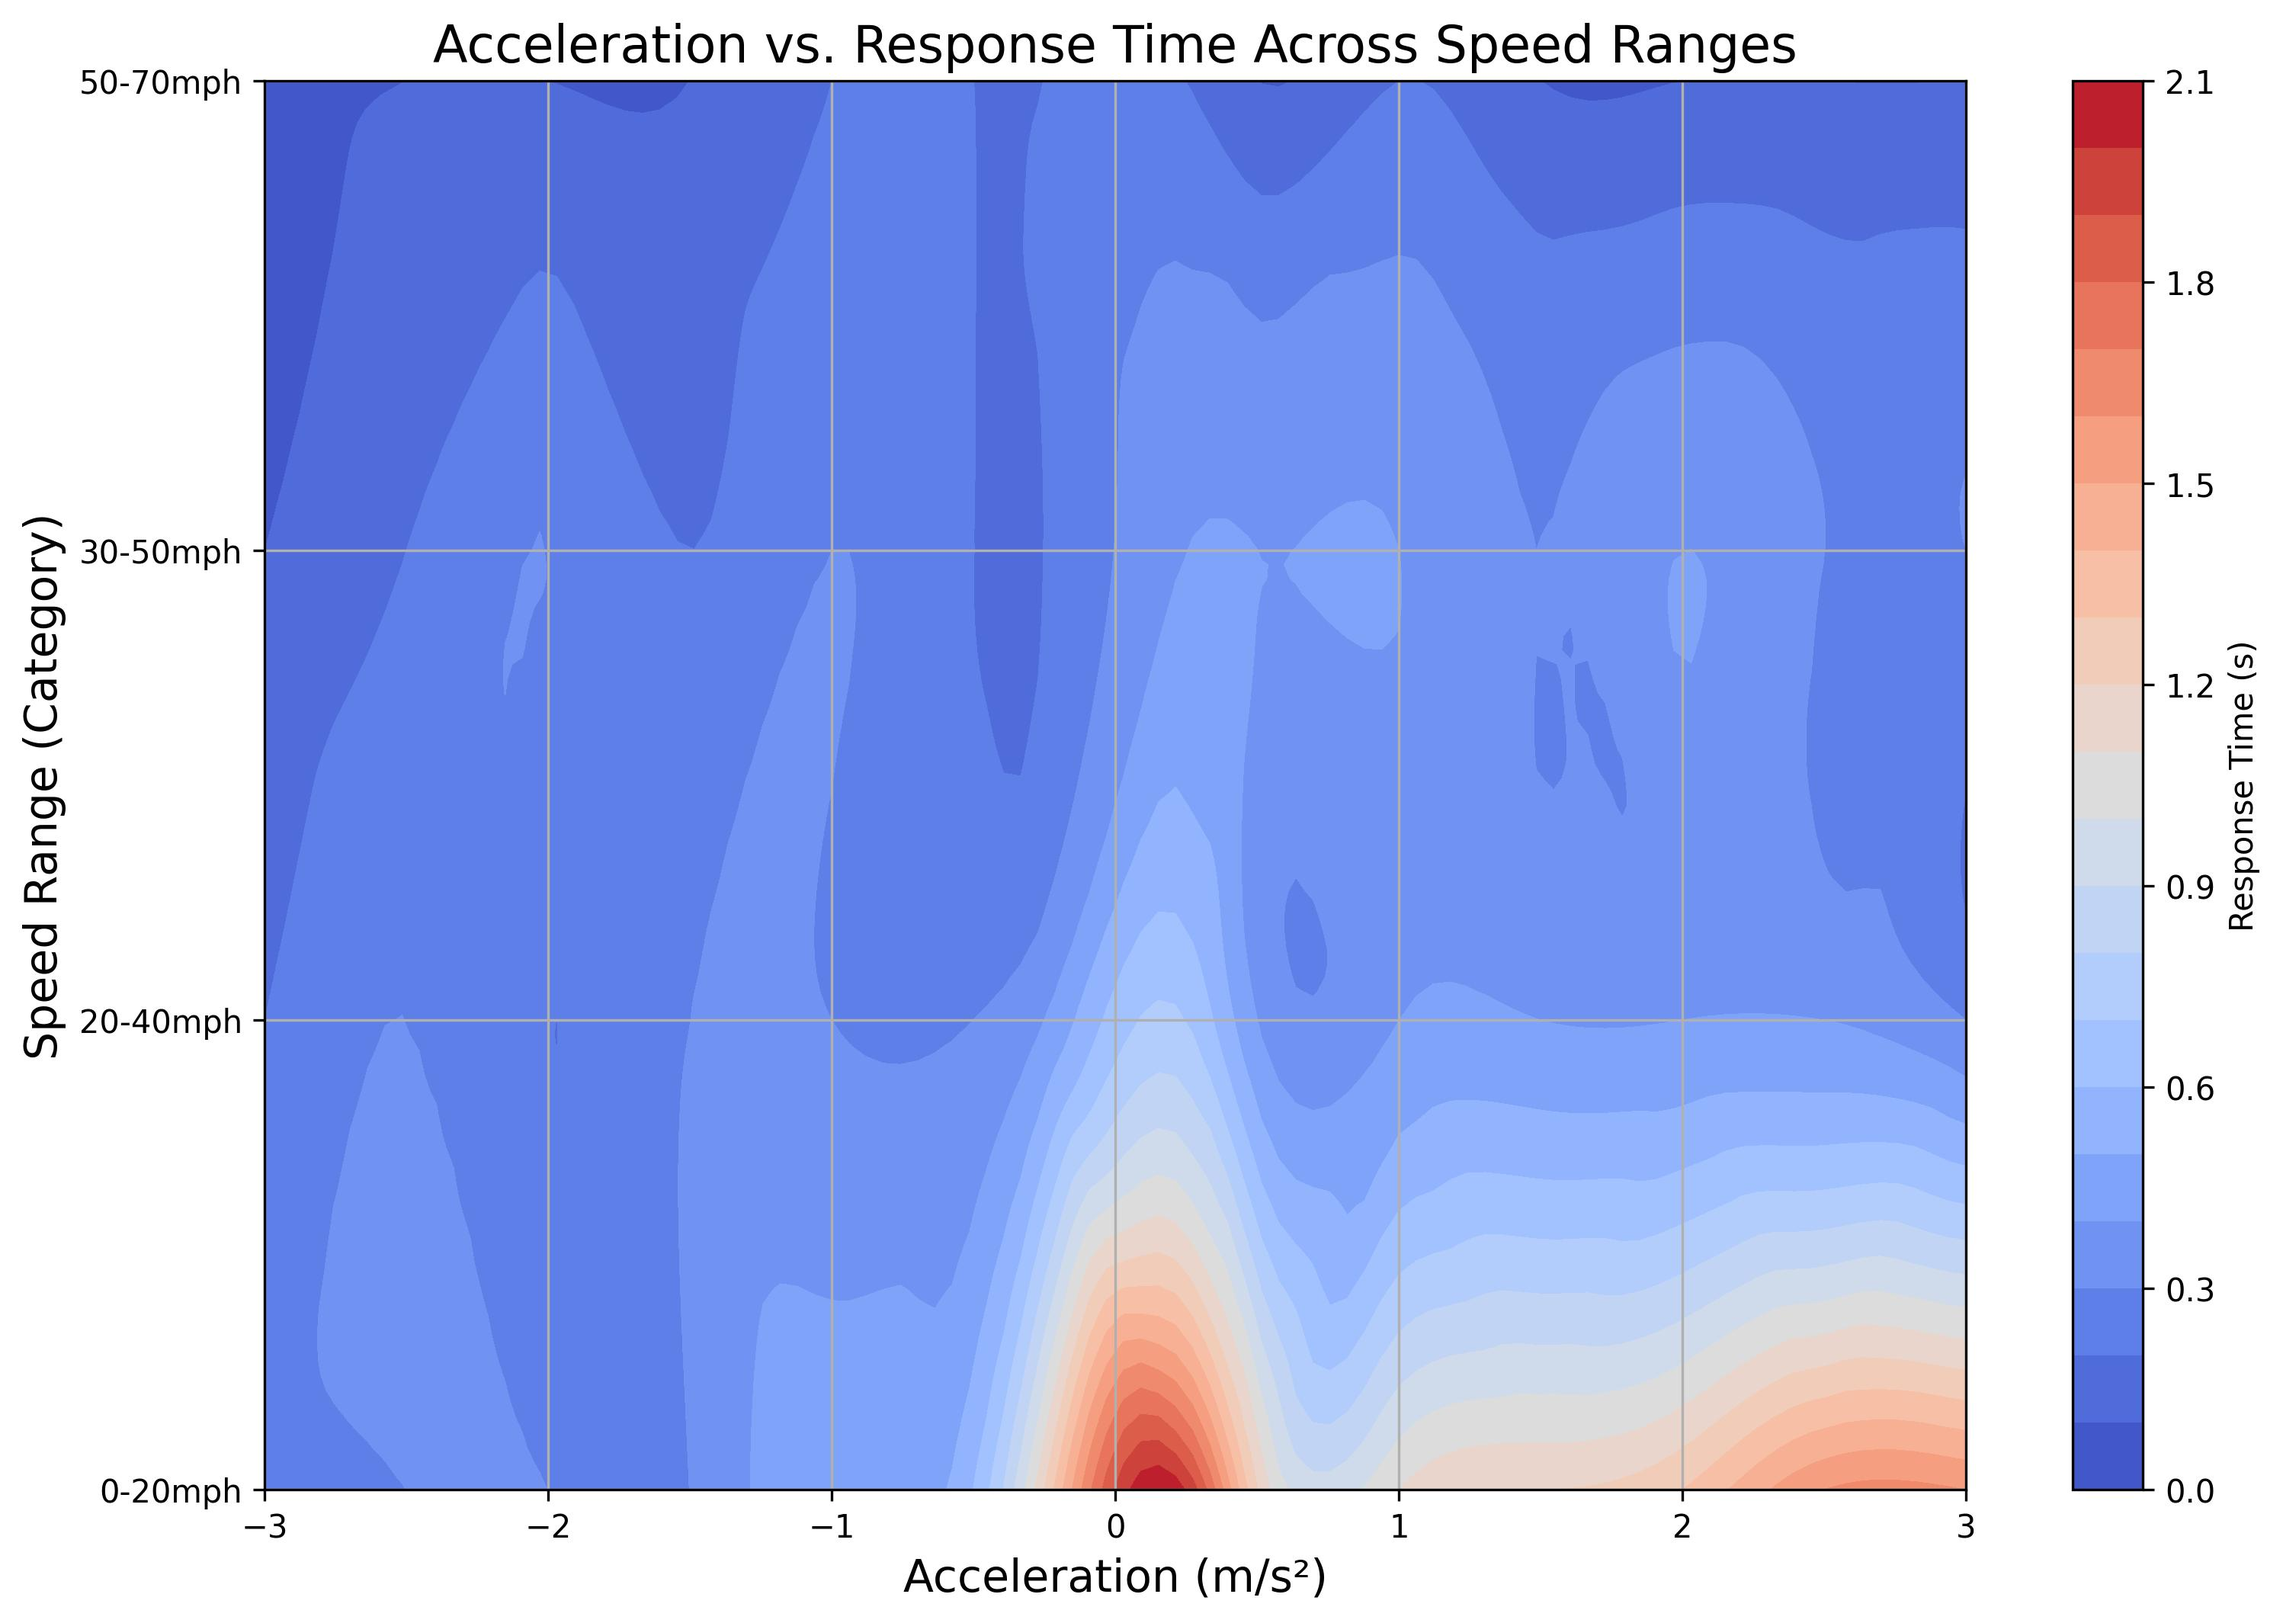
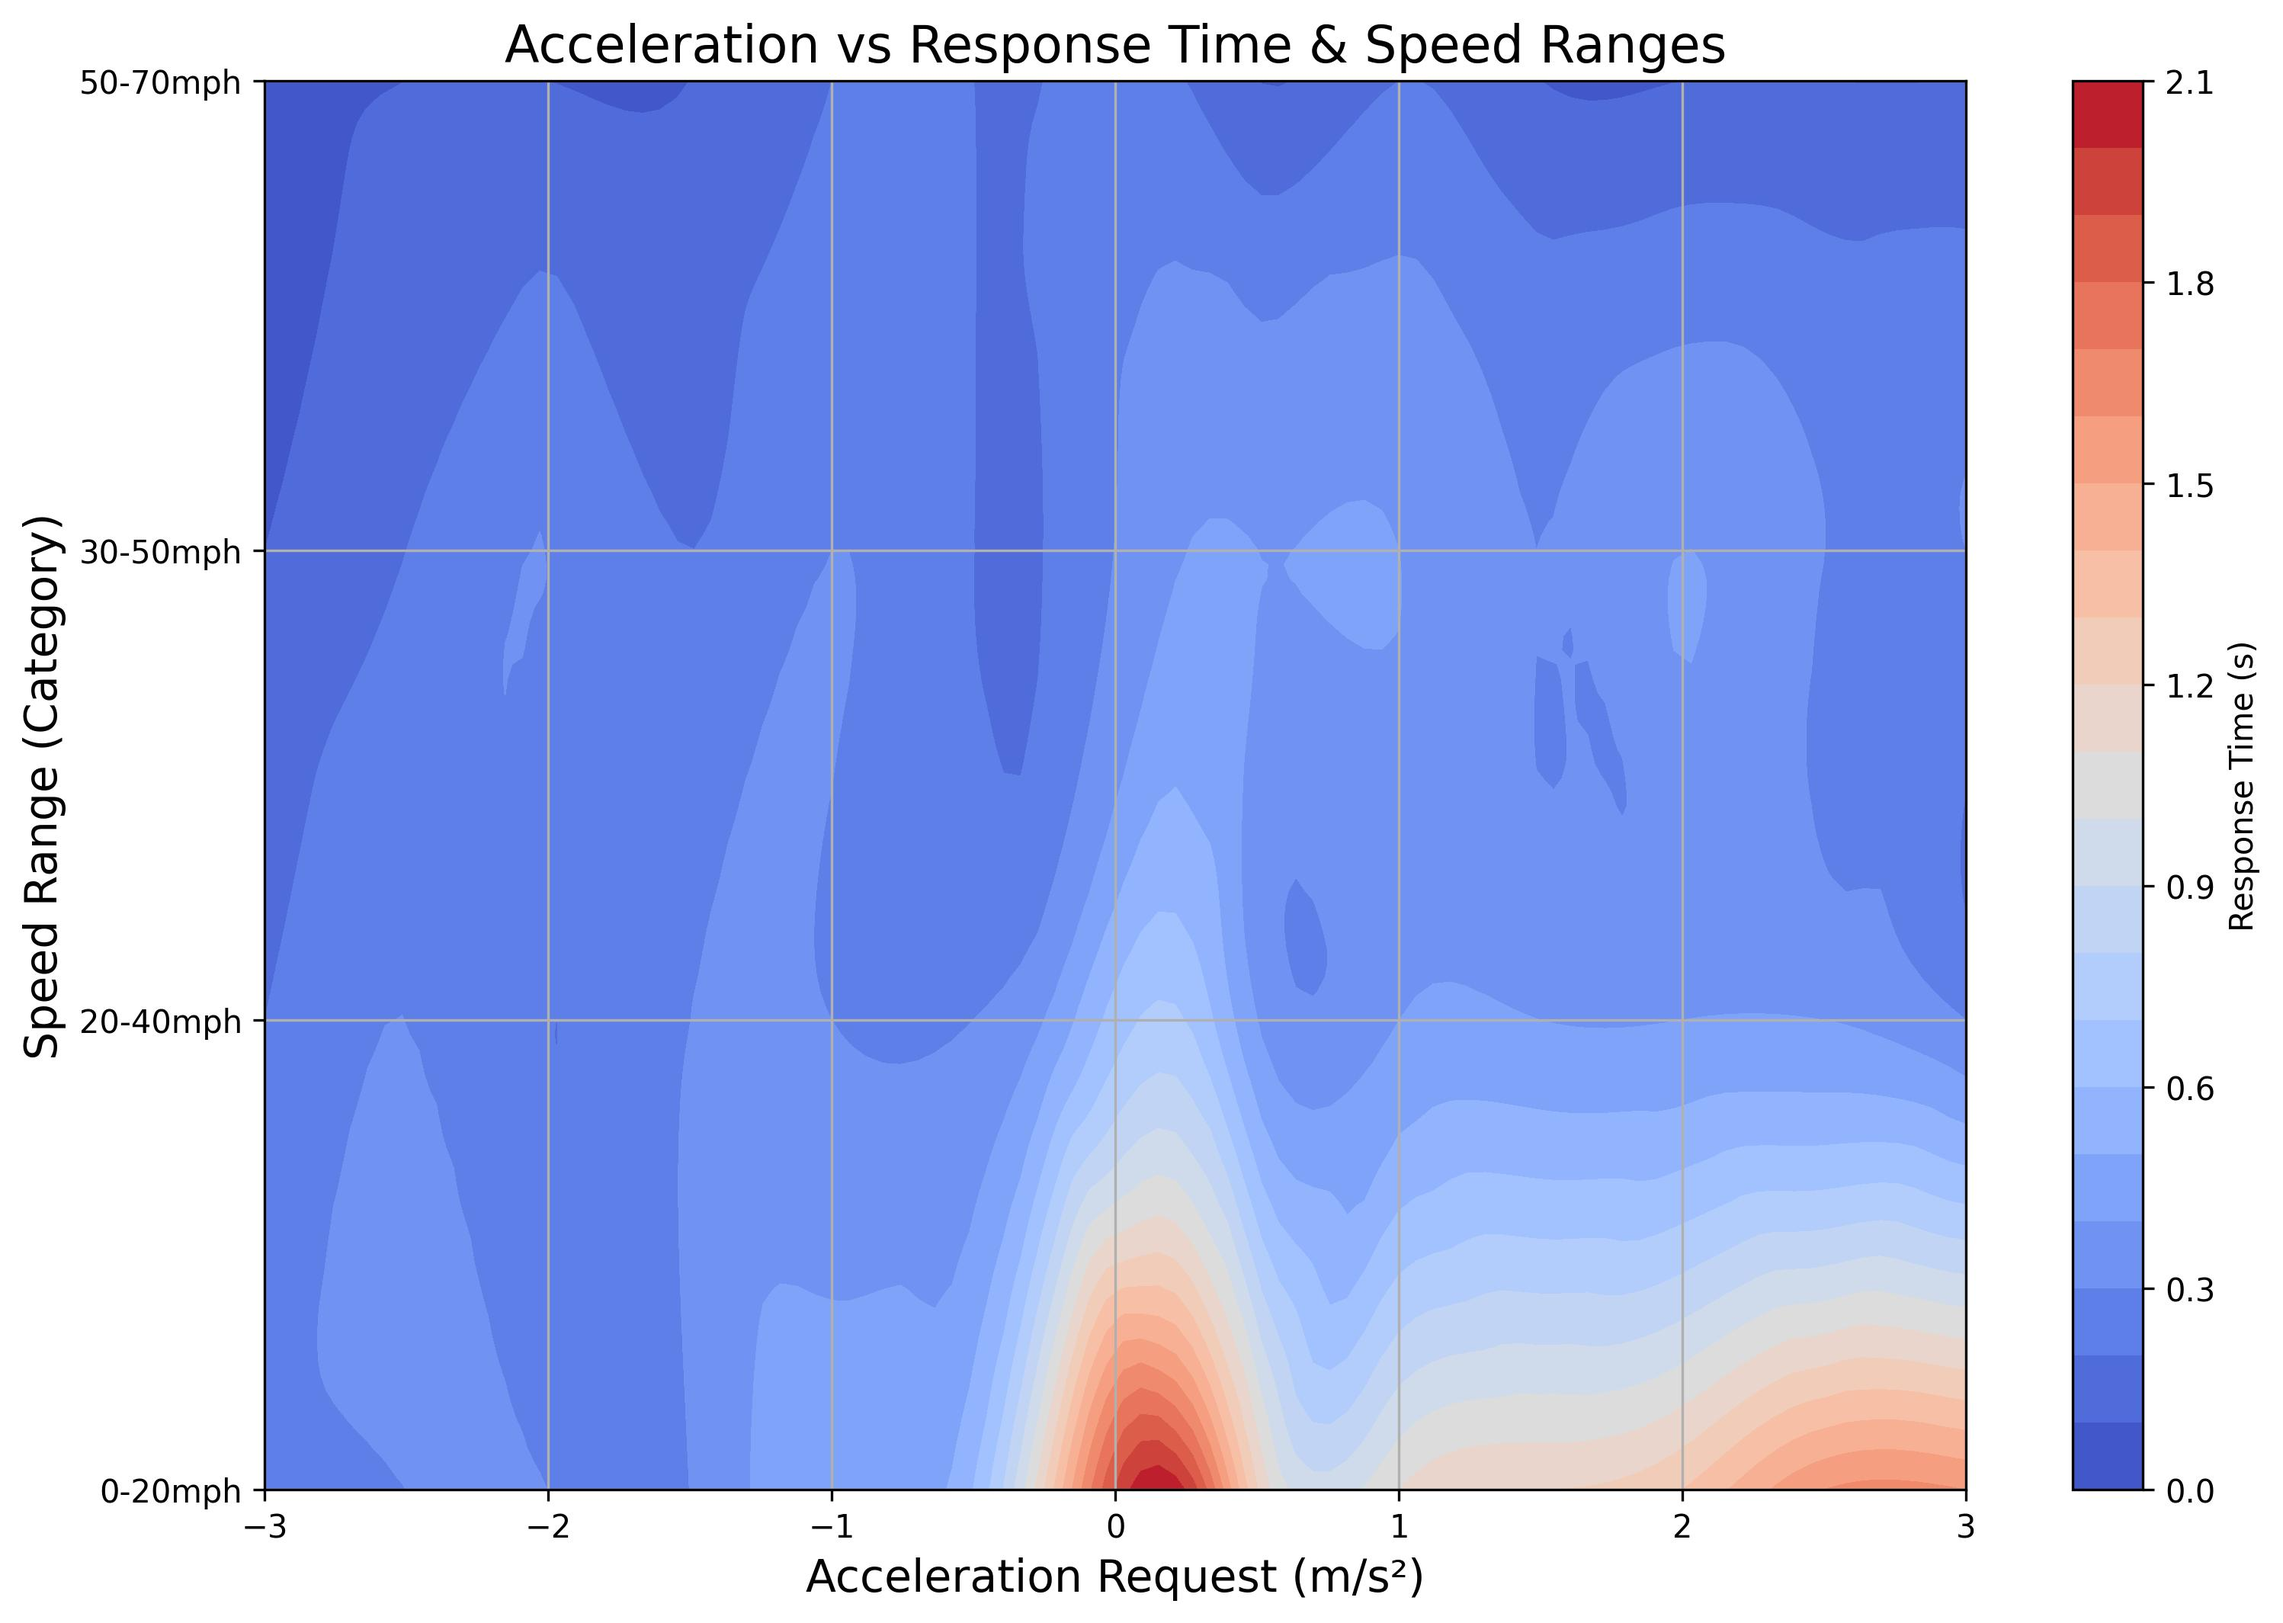
conducted analysis for accord and f150

Changed region(s): [[0.1863, 0.0, 0.7763, 0.062], [0.3416, 0.961, 0.621, 0.992]]

diff --git a/src/tools/xil-data-analysis/2018-Honda-Accord/response-analysis-code-line/PlotManager.py b/src/tools/xil-data-analysis/2018-Honda-Accord/response-analysis-code-line/PlotManager.py
@@ -241,7 +241,7 @@ class PlotManager:
         plt.figure(figsize=(12, 8))
         ax = sns.heatmap(heatmap_pivot_reponse_time, annot=True, cmap="coolwarm", linewidths=0.5, fmt=".2f")
         if self.title_status: plt.title("Response Time vs Acceleration & Speed Ranges", fontdict={'fontsize': 18})
-        plt.xlabel("Acceleration (m/s²)", fontdict={'fontsize': 16})
+        plt.xlabel("Acceleration Request (m/s²)", fontdict={'fontsize': 16})
         plt.ylabel("Speed Range (mph)", fontdict={'fontsize': 16})
         cbar = ax.collections[0].colorbar
         cbar.set_label('Response Time (s)', fontdict={'fontsize': 16})
@@ -286,7 +286,7 @@ class PlotManager:
         plt.figure(figsize=(12, 8))
         ax = sns.heatmap(heatmap_pivot_accel_decel, annot=True, cmap="coolwarm", linewidths=0.5, fmt=".2f")
         if self.title_status: plt.title("Accel/Decel Time vs Acceleration & Speed Ranges", fontdict={'fontsize': 18})
-        plt.xlabel("Acceleration (m/s²)", fontdict={'fontsize': 16})
+        plt.xlabel("Acceleration Request (m/s²)", fontdict={'fontsize': 16})
         plt.ylabel("Speed Range (mph)", fontdict={'fontsize': 16})
         cbar = ax.collections[0].colorbar
         cbar.set_label('Accel/Decel Time (s)', fontdict={'fontsize': 16})
@@ -322,7 +322,7 @@ class PlotManager:
             plt.plot(df_sorted['Accel_Value'], df_sorted['Response_Time'], marker='o', linestyle='-', label=f"Speed {speed_range}")
 
         # Customize the plot
-        plt.xlabel("Acceleration (m/s²)", fontsize=14)
+        plt.xlabel("Acceleration Request (m/s²)", fontsize=14)
         plt.ylabel("Response Time (s)", fontsize=14)
         if self.title_status: plt.title("Acceleration vs Response Time & Speed Ranges", fontsize=16)
         plt.legend(title="Speed Range (mph)")
@@ -399,7 +399,7 @@ class PlotManager:
         cbar.set_label("Response Time (s)", fontsize=12)
 
         # Labels and title
-        ax.set_xlabel("Acceleration (m/s²)", fontsize=12)
+        ax.set_xlabel("Acceleration Request (m/s²)", fontsize=12)
         ax.set_ylabel("Speed Range (mph)", fontsize=12, labelpad=15)
         ax.set_zlabel("Response Time (s)", fontsize=12)
         if self.title_status: ax.set_title("Acceleration vs Response Time & Speed Ranges", fontsize=14)
@@ -456,7 +456,7 @@ class PlotManager:
         cbar.set_label("Response Time (s)")
 
         # Labels and customization
-        plt.xlabel("Acceleration (m/s²)", fontsize=14)
+        plt.xlabel("Acceleration Request (m/s²)", fontsize=14)
         plt.ylabel("Speed Range (Category)", fontsize=14)
         if self.title_status: plt.title("Acceleration vs Response Time & Speed Ranges", fontsize=16)
 

diff --git a/src/tools/xil-data-analysis/2023-Ford-F150-Lightning/response-analysis-code-line/PlotManager.py b/src/tools/xil-data-analysis/2023-Ford-F150-Lightning/response-analysis-code-line/PlotManager.py
@@ -249,7 +249,7 @@ class PlotManager:
         plt.figure(figsize=(12, 8))
         ax = sns.heatmap(heatmap_pivot_reponse_time, annot=True, cmap="coolwarm", linewidths=0.5, fmt=".2f")
         if self.title_status: plt.title("Response Time vs Acceleration & Speed Ranges", fontdict={'fontsize': 18})
-        plt.xlabel("Acceleration (m/s²)", fontdict={'fontsize': 16})
+        plt.xlabel("Acceleration Request (m/s²)", fontdict={'fontsize': 16})
         plt.ylabel("Speed Range (mph)", fontdict={'fontsize': 16})
         cbar = ax.collections[0].colorbar
         cbar.set_label('Response Time (s)', fontdict={'fontsize': 16})
@@ -294,7 +294,7 @@ class PlotManager:
         plt.figure(figsize=(12, 8))
         ax = sns.heatmap(heatmap_pivot_accel_decel, annot=True, cmap="coolwarm", linewidths=0.5, fmt=".2f")
         if self.title_status: plt.title("Accel/Decel Time vs Acceleration & Speed Ranges", fontdict={'fontsize': 18})
-        plt.xlabel("Acceleration (m/s²)", fontdict={'fontsize': 16})
+        plt.xlabel("Acceleration Request (m/s²)", fontdict={'fontsize': 16})
         plt.ylabel("Speed Range (mph)", fontdict={'fontsize': 16})
         cbar = ax.collections[0].colorbar
         cbar.set_label('Accel/Decel Time (s)', fontdict={'fontsize': 16})
@@ -330,7 +330,7 @@ class PlotManager:
             plt.plot(df_sorted['Accel_Value'], df_sorted['Response_Time'], marker='o', linestyle='-', label=f"Speed {speed_range}")
 
         # Customize the plot
-        plt.xlabel("Acceleration (m/s²)", fontsize=14)
+        plt.xlabel("Acceleration Request (m/s²)", fontsize=14)
         plt.ylabel("Response Time (s)", fontsize=14)
         if self.title_status: plt.title("Acceleration vs Response Time & Speed Ranges", fontsize=16)
         plt.legend(title="Speed Range (mph)")
@@ -407,7 +407,7 @@ class PlotManager:
         cbar.set_label("Response Time (s)", fontsize=12)
 
         # Labels and title
-        ax.set_xlabel("Acceleration (m/s²)", fontsize=12)
+        ax.set_xlabel("Acceleration Request (m/s²)", fontsize=12)
         ax.set_ylabel("Speed Range (mph)", fontsize=12, labelpad=15)
         ax.set_zlabel("Response Time (s)", fontsize=12)
         if self.title_status: ax.set_title("Acceleration vs Response Time & Speed Ranges", fontsize=14)
@@ -463,7 +463,7 @@ class PlotManager:
         cbar.set_label("Response Time (s)")
 
         # Labels and customization
-        plt.xlabel("Acceleration (m/s²)", fontsize=14)
+        plt.xlabel("Acceleration Request (m/s²)", fontsize=14)
         plt.ylabel("Speed Range (Category)", fontsize=14)
         if self.title_status: plt.title("Acceleration vs Response Time & Speed Ranges", fontsize=16)
 

diff --git a/src/tools/xil-data-analysis/2023-Hyundai-Ioniq5/PlotManager.py b/src/tools/xil-data-analysis/2023-Hyundai-Ioniq5/PlotManager.py
@@ -241,7 +241,7 @@ class PlotManager:
         plt.figure(figsize=(12, 8))
         ax = sns.heatmap(heatmap_pivot_reponse_time, annot=True, cmap="coolwarm", linewidths=0.5, fmt=".2f")
         if self.title_status: plt.title("Response Time vs Acceleration & Speed Ranges", fontdict={'fontsize': 18})
-        plt.xlabel("Acceleration (m/s²)", fontdict={'fontsize': 16})
+        plt.xlabel("Acceleration Request (m/s²)", fontdict={'fontsize': 16})
         plt.ylabel("Speed Range (mph)", fontdict={'fontsize': 16})
         cbar = ax.collections[0].colorbar
         cbar.set_label('Response Time (s)', fontdict={'fontsize': 16})
@@ -286,7 +286,7 @@ class PlotManager:
         plt.figure(figsize=(12, 8))
         ax = sns.heatmap(heatmap_pivot_accel_decel, annot=True, cmap="coolwarm", linewidths=0.5, fmt=".2f")
         if self.title_status: plt.title("Accel/Decel Time vs Acceleration & Speed Ranges", fontdict={'fontsize': 18})
-        plt.xlabel("Acceleration (m/s²)", fontdict={'fontsize': 16})
+        plt.xlabel("Acceleration Request (m/s²)", fontdict={'fontsize': 16})
         plt.ylabel("Speed Range (mph)", fontdict={'fontsize': 16})
         cbar = ax.collections[0].colorbar
         cbar.set_label('Accel/Decel Time (s)', fontdict={'fontsize': 16})
@@ -322,7 +322,7 @@ class PlotManager:
             plt.plot(df_sorted['Accel_Value'], df_sorted['Response_Time'], marker='o', linestyle='-', label=f"Speed {speed_range}")
 
         # Customize the plot
-        plt.xlabel("Acceleration (m/s²)", fontsize=14)
+        plt.xlabel("Acceleration Request (m/s²)", fontsize=14)
         plt.ylabel("Response Time (s)", fontsize=14)
         if self.title_status: plt.title("Acceleration vs Response Time & Speed Ranges", fontsize=16)
         plt.legend(title="Speed Range (mph)")
@@ -399,7 +399,7 @@ class PlotManager:
         cbar.set_label("Response Time (s)", fontsize=12)
 
         # Labels and title
-        ax.set_xlabel("Acceleration (m/s²)", fontsize=12)
+        ax.set_xlabel("Acceleration Request (m/s²)", fontsize=12)
         ax.set_ylabel("Speed Range (mph)", fontsize=12, labelpad=15)
         ax.set_zlabel("Response Time (s)", fontsize=12)
         if self.title_status: ax.set_title("Acceleration vs Response Time & Speed Ranges", fontsize=14)
@@ -455,7 +455,7 @@ class PlotManager:
         cbar.set_label("Response Time (s)")
 
         # Labels and customization
-        plt.xlabel("Acceleration (m/s²)", fontsize=14)
+        plt.xlabel("Acceleration Request (m/s²)", fontsize=14)
         plt.ylabel("Speed Range (Category)", fontsize=14)
         if self.title_status: plt.title("Acceleration vs Response Time & Speed Ranges", fontsize=16)
 

diff --git a/src/tools/xil-data-analysis/2023-Hyundai-Ioniq5/DataManager.py b/src/tools/xil-data-analysis/2023-Hyundai-Ioniq5/DataManager.py
@@ -553,10 +553,10 @@ class DataManager:
         if self.response_analysis_status:
             # self.get_acceleration_response_time()
             # self.plot_manager.plot_primary_secondary_yaxis(True, self.experimental_time_data, self.speed_data_mph, self.accel_data_rqst, "Time [s]", "Speed [mph]", "Acceleration [m/s²]", "Time vs Speed and Acceleration Plot", "resume-test_mph_time_vs_speed_Accel_resize")
-            # self.plot_manager.plot_respose_time_heat_map()
-            # self.plot_manager.plot_accel_decel_time_heat_map()
-            # self.plot_manager.plot_respose_time_line_graph()
-            # self.plot_manager.plot_respose_time_surface_plot()
+            self.plot_manager.plot_respose_time_heat_map()
+            self.plot_manager.plot_accel_decel_time_heat_map()
+            self.plot_manager.plot_respose_time_line_graph()
+            self.plot_manager.plot_respose_time_surface_plot()
             self.plot_manager.plot_respose_time_contour_plot()
 '''##############################################
                    Unit testing
